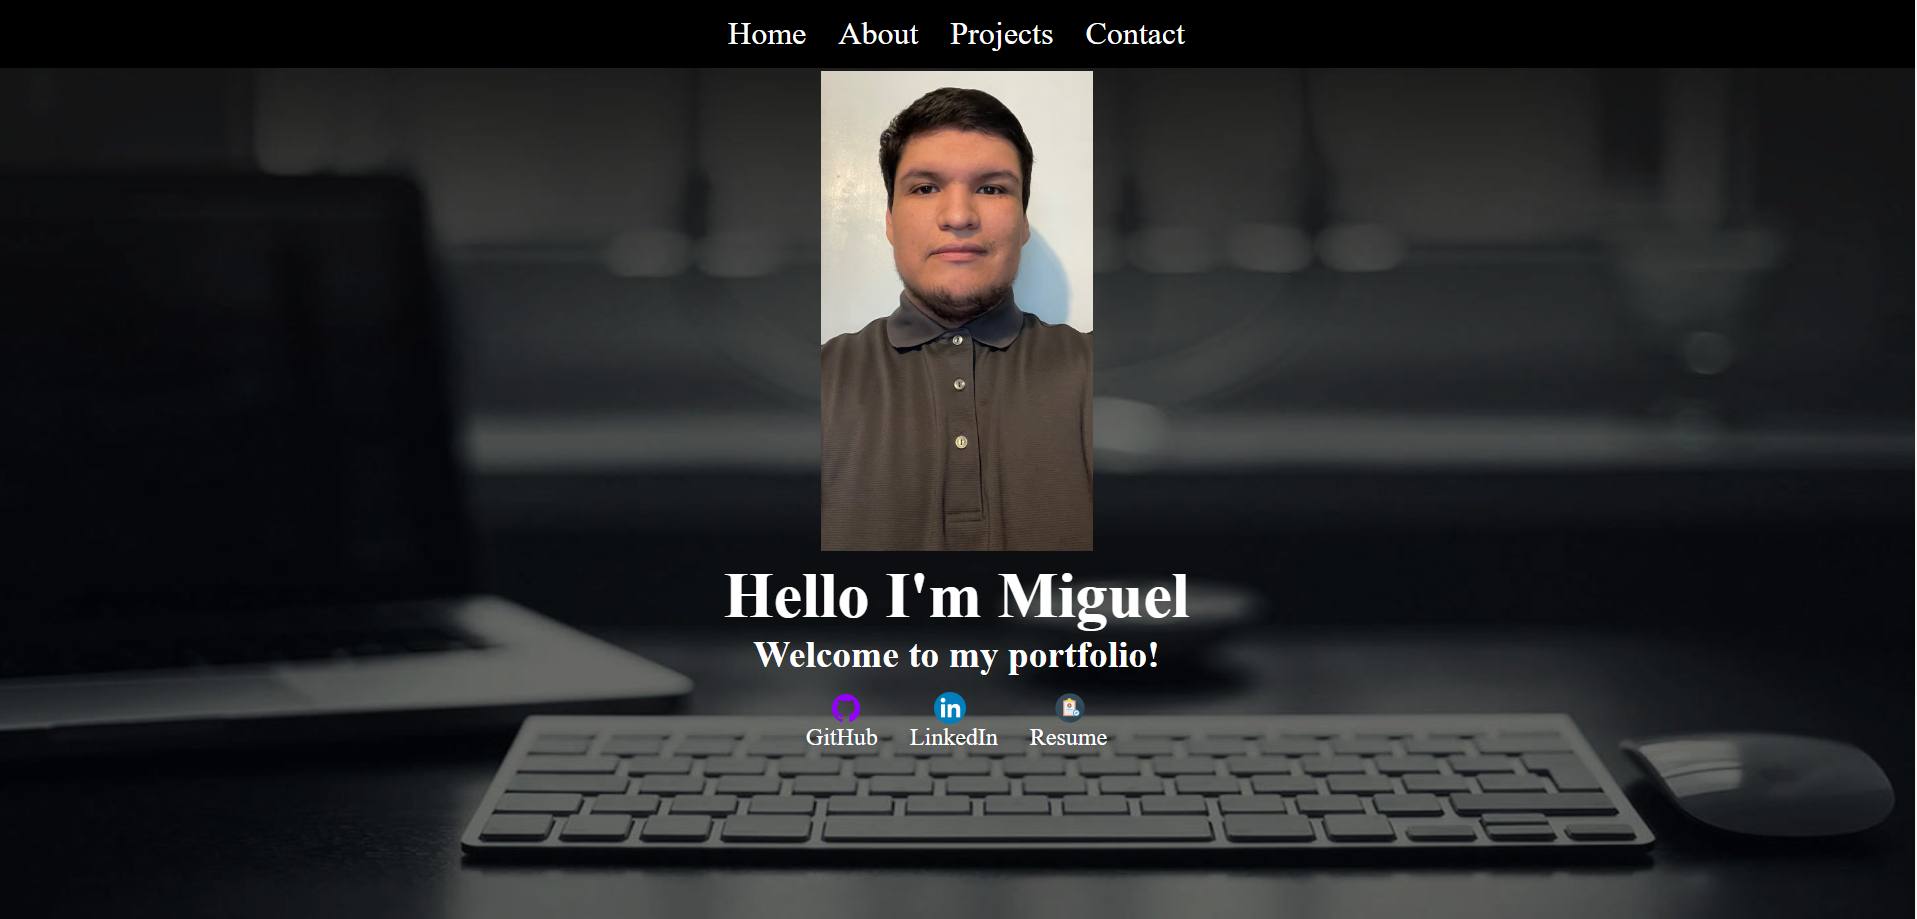
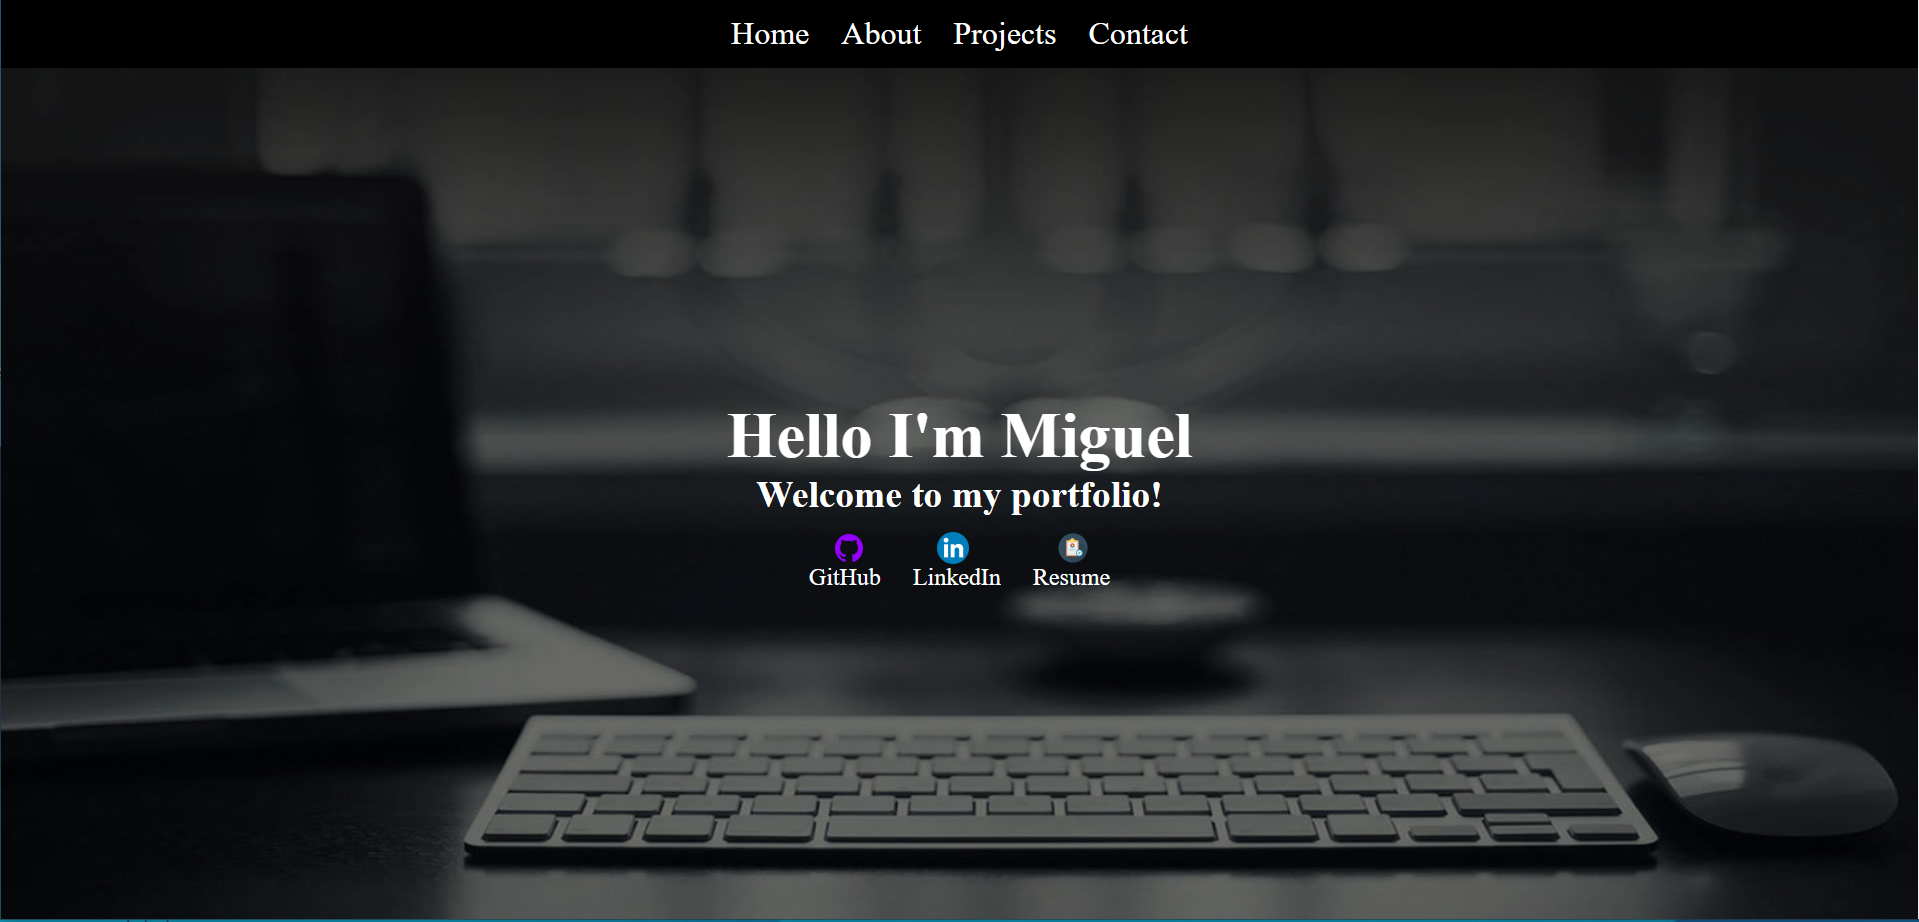
first commit

Changed region(s): [[0.3693, 0.0305, 0.6463, 0.7312], [0.0, 0.7617, 1.0, 1.0], [0.2154, 0.7617, 0.3693, 0.7922]]

diff --git a/src/components/styles/Projects.css b/src/components/styles/Projects.css
@@ -1,28 +1,30 @@
 .projects {
-    text-align: center;
+   text-align: center;
     font-size: x-large;
     height: 100vh;
     width: 100%;
 }
 .projects h1 {
-    margin-top: 17rem;
+    margin-bottom: 1rem;
 }
 .project {
-    display: flex;
-    width: fit-content;
+    display:flex;
+    justify-content: center;
     color: white;
-    margin-top: 10rem;
-    margin-left: 10rem;
+    margin-top: 5rem;
 }
 .project ul {
     display: flex;
-    gap: 5rem;
+    gap: 10rem;
     list-style: none;
 }
 .project li {
+    justify-content: center;
+    border-radius: 2rem;
     background-color: black;
 }
 .proimg {
+    border-radius: 2rem;
     display: flex;
     width: 30rem;
     height: 20rem;
@@ -36,53 +38,23 @@
     border-color: white;
     width: 10rem;
     text-decoration: none;
+    border-radius: 5rem;
 }
 .prolinks{
     display: flex;
-    gap: 1rem;
     margin-left: 4rem;
 }
 #portfolio {
     margin-left: 10rem;
 }
-
-@media only screen and (max-width: 2200px) {
-    .projects h1 {
-        margin-top: 20rem;
-    }
-    .project {
-        margin-left: 15rem;
-    }
-    .project ul {
-        gap: 5rem;
-    }
-    .project li {
-        width: 330px;
-        height: 300px;
-    }
-    .proimg {
-        width: 295px;
-        height: 200px;
-    }
-    .project a {
-        width: 5rem;
-        height: 1.5rem;
-        margin-left: -.5rem;
-        font-size: small;
-    }
-    #portfolio {
-        margin-left: 7rem;
-    }
-
-  }
   @media only screen and (max-width: 912px) and (min-width: 280px)  {
     .projects {
      width: 950px;
-     height: 2500px;
+     height: 100%;
     }
     .project {
-        margin-top: 2rem;
-        margin-left: 10rem;
+        margin-top: 1rem;
+        margin-bottom: 5rem;
     }
     .project ul {
         display: block;
@@ -98,10 +70,9 @@
         height: 22rem;
     }
     .project a {
-        margin-left: 7rem;
+        margin-left: 3rem;
         font-size: large;
-        height: 3rem;
-        width: -10rem;
+        height: 2rem;
     }
     #portfolio {
         margin-left: 11rem;

diff --git a/src/components/About.js b/src/components/About.js
@@ -3,13 +3,12 @@ import './styles/About.css'
 import {SiJavascript, SiHtml5, SiCss3, SiReact, SiNodedotjs, SiGit, SiAngularjs, SiGithub} from 'react-icons/si'
 import {AiFillApi} from 'react-icons/ai'
 import Servicenow from './images/servicenow.png'
-import Degree from './images/degree.jpg'
 
 const About = () => {
   return (
     <div className='about' id='About'>
       <h1>About Me</h1>
-        <p className='me'>Able to code web pages from the ground up using Html, CSS, 
+        <p className='me'>Able to develop web pages from the ground up using Html, CSS, 
           JavaScript, Node.js and the React framework.
         Fundamental understanding of Web design concepts, cross browser 
         development.
@@ -34,13 +33,6 @@ const About = () => {
             <li><SiAngularjs className='icon' id='angular'/>Angular.js</li>
             <li><img src={Servicenow} alt='servicenow' className='service'/>ServiceNow</li>
           </ul>
-      </div>
-      <div className='qualifications'>
-        <h3>Qualifications</h3>
-        <div>
-          <img src={Degree} alt='degree' className='degree' />
-          <h5>A.A.S in IT:Web Applications Programming</h5>
-        </div>
       </div>
     </div>
   )

diff --git a/src/components/styles/Home.css b/src/components/styles/Home.css
@@ -7,16 +7,14 @@
     background-image: url(../images/background1.jpg);
     background-size: 100% 100%;
 }
-.fimg {
-    width: 17rem;
-    height: 30rem;
-    margin-top: 4.5rem;
+.h1{
+    padding-top: 25rem;
 }
 .footLinks{
     justify-content: center;
 }
 .linkimg {
-    width: 1;
+    width: 2rem;
     height: 2rem;
     display: flex;
     margin-left: 1.5rem;
@@ -24,22 +22,20 @@
 
 @media only screen and (max-width: 912px) and (min-width: 280px) {
    .home{
-    width: 59.5rem;
-    height: 1800px;
+    width: 59.35rem;
+    height: 100rem;
     font-size: 3rem;
    }
    .h1 {
-    margin-top: 5rem;
+    padding-top: 35rem;
    }
    .footLinks a {
     font-size: 3rem;
    }
    .linkimg {
+    padding-top: 1rem;
     width: 4rem;
     height: 5rem;
     margin-left: 3rem;
-   }
-   .fimg {
-    margin-top: 15rem;
    }
   }

diff --git a/src/components/styles/Contact.css b/src/components/styles/Contact.css
@@ -1,5 +1,6 @@
 
 #Contact {
+    margin-top: 20rem;
     height: 50vh;
     width: 100%;
     font-size: x-large;
@@ -16,6 +17,7 @@
     font-size: x-large;
 }
 form{
+    border-radius: 2rem;
     display: flex;
     font-size: 1rem;
     flex-direction: column;
@@ -26,17 +28,19 @@ form{
     border: solid;
 }
 input{
+    border-radius: 2rem;
     width: 100%;
     height: 2rem;
 }
 textarea {
+    border-radius: 2rem;
     width: 100%;
     height: 10rem;
 }
 
 @media only screen and (max-width: 912px) and (min-width: 280px) {
     #Contact {
-     width: 950px;
+     width: 59.35rem;
     }
     .ch {
         font-size: xx-large;

diff --git a/src/components/Projects.js b/src/components/Projects.js
@@ -19,6 +19,10 @@ const Projects = () => {
           Flower Website
           <div className='prolinks'><a href='https://mglgrd95.github.io/lilysflowershop/' >Website</a><a href='https://github.com/MglGrd95/lilysflowershop' >Source Code</a></div>
           </li>
+        </ul>
+      </div>
+      <div className='project'>
+      <ul>
           <li><img src={Bike} alt='Bike' className='proimg'/>
           Bike Website
           <div className='prolinks'><a href='https://mglgrd95.github.io/bikeshop/' >Website</a><a href='https://github.com/MglGrd95/bikeshop' >Source Code</a></div>

diff --git a/src/components/Home.js b/src/components/Home.js
@@ -3,12 +3,10 @@ import './styles/Home.css'
 import Github from './images/Github.png'
 import LinkedIn from './images/LinkInd.png'
 import Resume from './images/resume.png'
-import Front from './images/front.jpg'
 
 const Home = () => {
   return (
     <div className='home' id='Home'>
-      <img src={Front} alt='front' className='fimg' />
       <h1 className='h1'>Hello I'm Miguel</h1>
       <h3>Welcome to my portfolio!</h3>
       <div className='footLinks'>

diff --git a/src/components/styles/About.css b/src/components/styles/About.css
@@ -6,14 +6,6 @@
     background-color:white;
     color: black;
 }
-.qualifications {
-    margin-top: 1rem;
-}
-.degree {
-    margin-top: 1rem;
-    width: 30rem;
-    height: 20rem;
-}
 .habout{
     margin-top: 0;
 }
